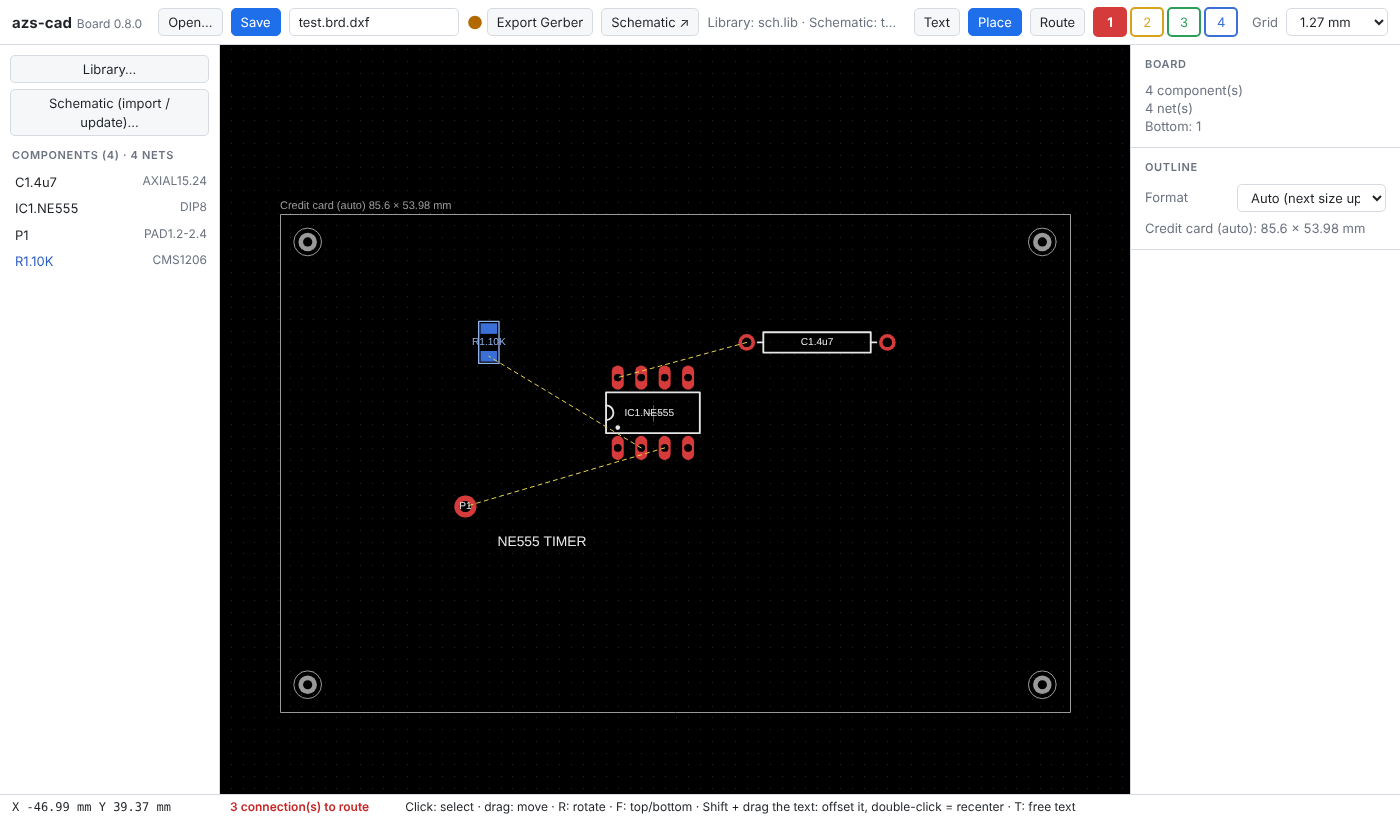
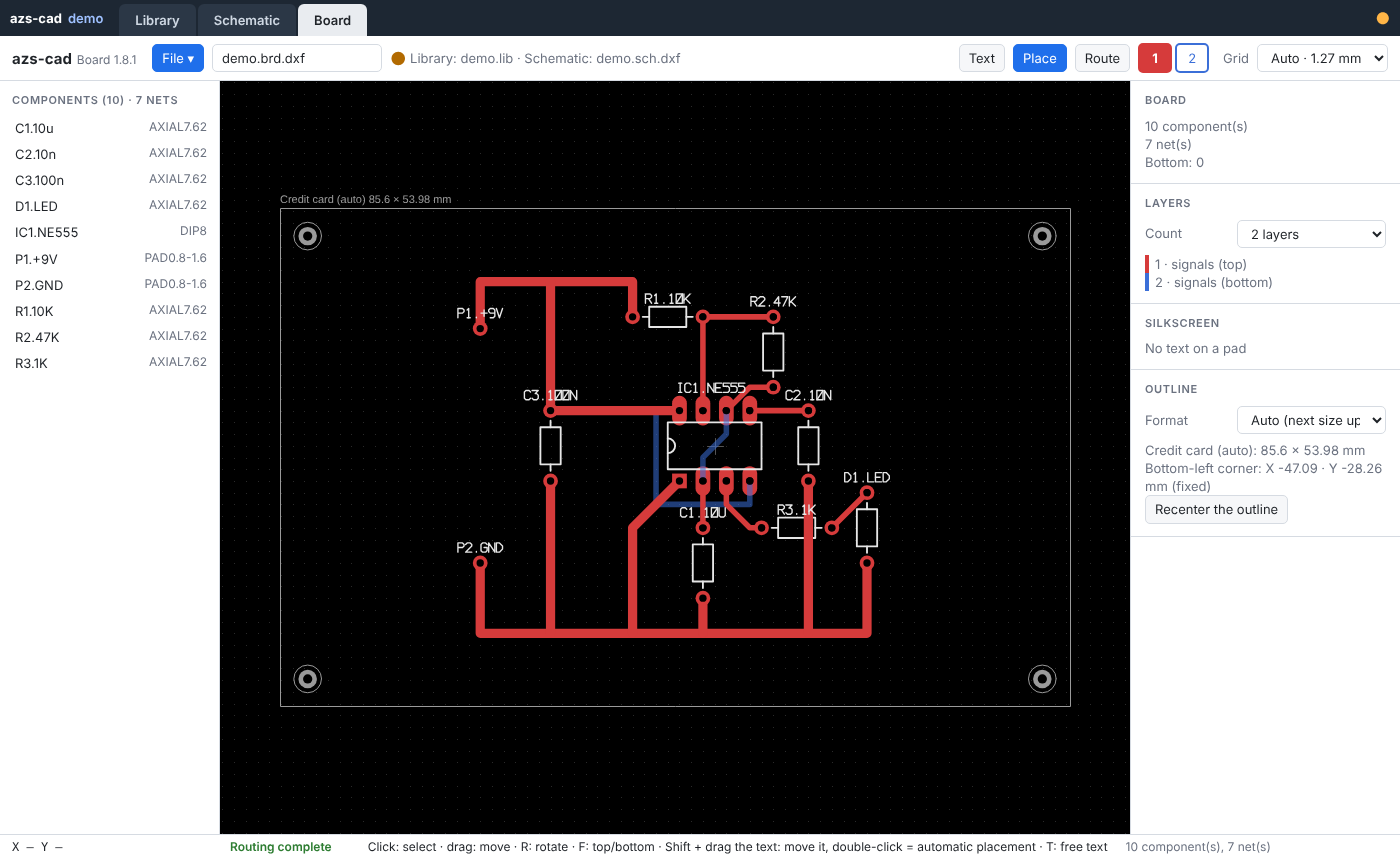
Add files via upload

diff --git a/LISEZMOI.md b/LISEZMOI.md
@@ -2,155 +2,25 @@
 
 **🇫🇷 Français** · [🇬🇧 English](README.md)
 
-Bibliothèque de composants, saisie de schéma et circuit imprimé multicouche, en trois pages HTML autonomes : HTML/CSS/JavaScript natif, aucune dépendance, fonctionne hors ligne. Esprit Eagle 4.01, sans en être un clone : routage manuel, 4 couches de cuivre, export Gerber RS-274X et Excellon.
-
-L'interface s'affiche en français si le navigateur est en français, en anglais sinon.
-
-![Routage](capture-routage.png)
-
-## Fichiers
-
-| Fichier | Version | Rôle |
-|---|---|---|
-| `bibliotheque.html` | 0.4.0 | Bibliothèque : composants, gabarits, nom des pattes |
-| `schema.html` | 0.5.0 | Saisie de schéma |
-| `board.html` | 0.8.0 | Circuit imprimé : placement, routage, export |
-| `LISEZMOI.md`, `README.md` | | Documentation en français, en anglais |
-| `LICENSE` | | CC BY-NC 4.0 |
-
-Les trois pages doivent être dans le **même dossier** et ouvertes dans le **même navigateur** (Chrome ou Edge conseillés).
-
-## Démarrage
-
-1. Ouvrir `bibliotheque.html`, créer ou ouvrir une bibliothèque `.lib`, l'enregistrer.
-2. Ouvrir `schema.html`, charger la bibliothèque, saisir le schéma.
-3. Bouton **Circuit ↗** : `board.html` s'ouvre sur le même projet et suit le schéma en direct, sans enregistrement ni rechargement.
-4. Placer, router, choisir le contour, puis **Export Gerber** : aperçu, et téléchargement d'un zip.
-
-## Bibliothèque — `bibliotheque.html`
-
-![Bibliothèque](capture-bibliotheque.png)
-
-- Double vue : **SCHÉMA** (fond blanc, pattes vertes) et **CIRCUIT** (fond noir, cuivre rouge), zoom et déplacement partagés.
-- **+ Nouveau composant** : famille normalisée et nombre de pattes, puis nom (ex. `NE555`). Familles : DIP étroit/large, SIL, HE10, bornier, axial, radial, TO-92/126/220, HC-49, SOIC, TSSOP, PLCC, TQFP, QFN, CMS 0402 à 2512, diodes CMS, SOT, DPAK.
-- Nom des pattes : clic sur la patte (Tab = patte suivante), clic droit = liste (VCC+, GND…), ou tableau Patte | Nom.
-- **Retoucher** : sélection, poignées, déplacement, rotation (R), suppression (Suppr), type DIL/CMS changé sur place. **Dessiner** : pads DIL/CMS, trait, rectangle, arc, cercle, point, texte.
-- Le vernis n'est pas dessiné : il découle des pastilles.
-
-Format `.lib` (texte, mm, degrés, une instruction par ligne, `#` = commentaire) :
-
-```
-PACKAGE DIP8
-PAD 1 -3.81 -3.81 0.8 1.3 OVALE 90      # nom x y perçage diamètre ROND|CARRE|OVALE rotation
-SMD 1 -0.95 0 0.6 1.0 0                  # nom x y dx dy rotation
-TRAIT x1 y1 x2 y2 épaisseur
-RECT x1 y1 x2 y2 épaisseur
-ARC cx cy r angle1 angle2 épaisseur      # sens trigonométrique
-CERCLE cx cy r épaisseur
-POINT x y r
-FIN
-COMPOSANT NE555 DIP8 SOIC8               # nom puis gabarits possibles
-GND => 1
-VCC+ => 8
-FIN
-```
-
-## Schéma — `schema.html`
-
-![Schéma](capture-schema.png)
-
-- Palette : **R** (zigzag), **C** (deux plaques, polarisé « + » au-delà de 1 µF, forçable), **D** (patte 1 = cathode), **L**, **PAD** (une patte), **IC** (dessiné comme dans la bibliothèque). Repères automatiques R1, C1, D1, L1, P1, IC1 ; libellés `IC1.NE555`, `R1.10K`.
-- Clic dans le vide : repose le dernier composant, même valeur.
-- Liaison : clic patte → patte. Clic droit sur une patte : **VCC+** ou **GND**.
-- Groupes : Ctrl+clic / Maj+clic sur des pattes ; deux groupes de même taille forment un **bus** (peignes et tronc gras marqué du nombre), appairé par numéro de patte.
-- Fil sélectionné : carré = déplacer un coude, rond au milieu = nouveau coude, double-clic = effacer. Type **Électrique** ou **Ligne 50 Ω** (orange pointillé). Tracé automatique orthogonal.
-- Croisement de deux équipotentielles : encoche ; même équipotentielle : point.
-- R : rotation · Suppr : supprimer · Ctrl+Z / Ctrl+Y · Ctrl+S.
-
-## Circuit — `board.html`
+Une seule page HTML, `azs-cad.html` : bibliothèque, schéma et circuit imprimé d'un même projet, en onglets. HTML/CSS/JavaScript natif, aucune dépendance, fonctionne hors ligne. Esprit Eagle 4.01, sans en être un clone. Interface en français ou en anglais selon le navigateur.
 
 ![Circuit](capture-circuit.png)
 
-### Placement
-- Import du schéma, ou lien **Schéma ↗ / Circuit ↗** : composants pré-placés selon le schéma, écartés juste assez pour ne pas se chevaucher.
-- Gabarit choisi dans la fiche : ceux de la bibliothèque, puis les **normalisés** générés (mêmes familles que la bibliothèque, pastille seule traversante ou CMS). Les passifs reprennent le dernier gabarit choisi pour leur type.
-- R : rotation · F : dessus / dessous (le dessous s'affiche en bleu, vu de dessus).
-- Le texte `IC1.NE555` est collé au composant ; Maj + glisser le décale, double-clic le recentre.
-- **Texte** (T) : texte libre de sérigraphie, hauteur en mm, face au choix.
-- Un composant déplacé, tourné, retourné ou changé de gabarit perd son cuivre : ses liaisons repartent en chevelu.
+## Fonctions
 
-### Routage
-- **Router**, puis clic sur une pastille : départ sur la couche de la face du composant (cuivre 1 dessus, cuivre 4 dessous).
-- Chaque clic pose un coude droit puis à 45°. Touches **1 à 4** ou boutons colorés : changement de couche, via posée automatiquement.
-- Fin : clic sur une pastille, une piste ou une via de la même équipotentielle, sur n'importe quelle couche (via posée d'office si besoin). Clic droit ou Échap : arrêt en gardant les segments. **Double-clic : annule le tracé en cours.**
-- Hors tracé : double-clic sur une piste ou une via = dé-routage, retour au chevelu jaune pointillé.
-- Clic sur un segment : sélection ; glisser = déplacer ; Suppr = supprimer ; clic sur l'extrémité libre d'un segment sélectionné = prolonger. Clic droit sur une piste : largeur standard (0,2 à 2,54 mm) ou saisie.
-- Le chevelu jaune pointillé suit le tracé ; les lignes 50 Ω sont en orange.
-- Isolement : un passage trop près du cuivre d'une autre équipotentielle est entouré d'un cercle mauve avec la distance mesurée ; la pose n'est jamais refusée.
-- Compteur permanent des liaisons restant à router dans la barre d'état.
+- **Bibliothèque** : gabarits normalisés DIL/CMS (DIP, SOIC, QFN, TQFP, 0402–2512…), nom des pattes, import de gabarits fournisseur `.zip` / `.lbr`.
+- **Schéma** : R, C, D, L, PAD, circuits du projet, bus, VCC+/GND, lignes 50 Ω.
+- **Circuit** : 2, 4 ou 6 couches, plans GND et VCC, routage manuel 45°, vias automatiques, contrôle d'isolement, sérigraphie au vrai.
+- **Patchs RF 50 Ω** (400 à 3000 MHz), cuivre calculé : diviseur Wilkinson, diviseur en T 2/4/8 sorties, coupleur directionnel, filtres passe-bas et passe-bande, antenne patch, monopôle λ/4.
+- **Sorties** : Gerber RS-274X + Excellon en zip avec aperçu, nomenclature `.bom.csv`.
+- **Fichiers** : `<projet>.lib`, `<projet>.sch.dxf` et `<projet>.brd.dxf` (AutoCAD R12). Ctrl+S enregistre le projet.
 
-### Réglages de fabrication
+![Schéma](capture-schema.png)
 
-| Réglage | Défaut | Minimum (PCBCart standard × 2) |
-|---|---|---|
-| Largeur de piste | 1 mm, puis la dernière utilisée | 0,152 mm |
-| Isolement | 0,2 mm | 0,152 mm |
-| Via (perçage / Ø) | 0,8 / 1,6 mm | perçage 0,304 mm, couronne 0,152 mm |
-| Substrat | FR4 1,6 mm (ou 0,8), εr 4,5, cuivre 35 µm | |
-
-Largeur 50 Ω (microruban, IPC-2141) : `w = (5,98·h / exp(50·√(εr+1,41) / 87) − t) / 0,8`, soit 2,914 mm sur 1,6 mm.
-
-### Contour et export
-
-![Aperçu Gerber](capture-apercu-gerber.png)
-
-- Contour : **Auto** (carte de crédit 85,6 × 54, sinon Europe 160 × 100, sinon taille juste au-dessus), format imposé ou **Personnalisé** ; 5 mm de marge, centré sur le projet.
-- 4 mires d'alignement à 3 mm des coins (cuivre Ø 2, vernis Ø 2,4, sérigraphie Ø 3, trou Ø 1) et « **AZS** » sur toutes les couches pour contrôler le sens : lisible dessus, en miroir dessous.
-- **Export Gerber** : aperçu relu depuis les fichiers produits — miniatures vues de dessus, loupe sur « AZS », vue agrandie avec couches superposables, transparence, coordonnées et mesure (Maj + clic) — puis **Télécharger le zip** `<nom>-gerber.zip`.
-
-![Vue agrandie](capture-vue-gerber.png)
-
-| Fichier | Contenu |
-|---|---|
-| `-cuivre1.gtl` | Cuivre 1 (dessus) |
-| `-cuivre2.g2l`, `-cuivre3.g3l` | Cuivres internes, s'ils portent une piste |
-| `-cuivre4.gbl` | Cuivre 4 (dessous) |
-| `-vernis-dessus.gts`, `-vernis-dessous.gbs` | Ouvertures de vernis (marge 0,1 mm) |
-| `-serigraphie-dessus.gto`, `-serigraphie-dessous.gbo` | Sérigraphie (police au trait, majuscules) |
-| `-contour.gko` | Contour |
-| `-percage.drl` | Perçage Excellon (mm) |
-
-## Lien schéma ↔ circuit
-
-Chaque page publie son état à chaque changement dans le stockage local du navigateur ; l'autre page le suit sans action. Ce qui n'a pas changé reste en place et routé ; un composant ajouté arrive à droite de la carte ; un composant supprimé part avec son cuivre ; une liaison modifiée fait sauter les pistes de son équipotentielle. **Enregistrer** produit les fichiers sur disque.
-
-## Raccourcis
-
-| Touche | Bibliothèque | Schéma | Circuit |
-|---|---|---|---|
-| R | rotation | rotation | rotation |
-| F | | | dessus / dessous |
-| T | | | texte libre |
-| 1 à 4 | | | couche de cuivre (via en cours de tracé) |
-| Suppr | supprimer | supprimer | segment, via ou texte |
-| Échap | fin d'action | annuler la pose / la liaison | arrêter le tracé, désélectionner |
-| Ctrl+Z / Ctrl+Y | annuler / rétablir | annuler / rétablir | annuler / rétablir |
-| Ctrl+S | enregistrer | enregistrer | enregistrer |
-
-## Formats
-
-- Schéma `.sch.dxf` et circuit `.brd.dxf` : **AutoCAD R12 (AC1009)** multicalque, lisibles par tout logiciel de DAO ; données azs-cad en XDATA (APPID `AZSCAD` ; les fichiers `AIGLECAD` des premières versions restent lus).
-- Calques du circuit : `CUIVRE_1` à `CUIVRE_4`, `VERNIS_DESSUS`, `VERNIS_DESSOUS`, `TEXTE_DESSUS`, `TEXTE_DESSOUS`, `PERCAGE`, `CHEVELU`, `AZSCAD`.
-- Bibliothèque `.lib` : texte (voir plus haut).
-
-## Limites
-
-Pas d'autoroutage, pas de plans de masse, vias traversantes uniquement, pas de couche restrict/keepout. Le lien schéma ↔ circuit exige le même navigateur.
+![Patch](capture-patch.png)
 
 ## Licence
 
-Libre pour un usage non commercial, sous licence [CC BY-NC 4.0](https://creativecommons.org/licenses/by-nc/4.0/deed.fr), avec mention obligatoire de la source et de l'auteur : « azs-cad — Eric PERRET — https://github.com/ericperret/azs-cad ». Toute utilisation commerciale est interdite sans l'autorisation écrite de l'auteur, à demander par courriel : eperret@azs.fr. Voir `LICENSE`.
-
-## Auteur
+[CC BY-NC 4.0](https://creativecommons.org/licenses/by-nc/4.0/deed.fr) : usage non commercial libre, avec mention « azs-cad — Eric PERRET — https://github.com/ericperret/pcb-cad ». Usage commercial sur autorisation écrite : eperret@azs.fr. Voir `LICENSE`.
 
 © Eric PERRET 2026 · eperret@azs.fr · www.azs.fr

diff --git a/README.md b/README.md
@@ -2,155 +2,25 @@
 
 [🇫🇷 Français](LISEZMOI.md) · **🇬🇧 English**
 
-Component library, schematic capture and multilayer PCB, in three standalone HTML pages: plain HTML/CSS/JavaScript, no dependency, works offline. In the spirit of Eagle 4.01 without cloning it: manual routing, 4 copper layers, Gerber RS-274X and Excellon export.
-
-The interface is in French when the browser is set to French, in English otherwise.
-
-![Routing](screenshot-routing.png)
-
-## Files
-
-| File | Version | Role |
-|---|---|---|
-| `bibliotheque.html` | 0.4.0 | Library: components, footprints, pin names |
-| `schema.html` | 0.5.0 | Schematic capture |
-| `board.html` | 0.8.0 | Board: placement, routing, export |
-| `README.md`, `LISEZMOI.md` | | Documentation in English, in French |
-| `LICENSE` | | CC BY-NC 4.0 |
-
-The three pages must sit in the **same folder** and be opened in the **same browser** (Chrome or Edge recommended).
-
-## Getting started
-
-1. Open `bibliotheque.html`, create or open a `.lib` library, save it.
-2. Open `schema.html`, load the library, draw the schematic.
-3. **Board ↗** button: `board.html` opens on the same project and follows the schematic live, with no saving or reloading.
-4. Place, route, pick the outline, then **Export Gerber**: preview, then download a zip.
-
-## Library — `bibliotheque.html`
-
-![Library](screenshot-library.png)
-
-- Two views: **SCHEMATIC** (white background, green pins) and **BOARD** (black background, red copper), shared zoom and pan.
-- **+ New component**: standard family and pin count, then name (e.g. `NE555`). Families: DIP narrow/wide, SIL, HE10, screw terminal, axial, radial, TO-92/126/220, HC-49, SOIC, TSSOP, PLCC, TQFP, QFN, SMD 0402 to 2512, SMD diodes, SOT, DPAK.
-- Pin names: click the pin (Tab = next pin), right-click = list (VCC+, GND…), or the Pin | Name table.
-- **Edit**: selection, handles, move, rotate (R), delete (Del), THT/SMD type changed in place. **Draw**: THT/SMD pads, line, rectangle, arc, circle, dot, text.
-- Solder mask is not drawn: it derives from the pads.
-
-`.lib` format (plain text, mm, degrees, one statement per line, `#` = comment; keywords stay in French):
-
-```
-PACKAGE DIP8
-PAD 1 -3.81 -3.81 0.8 1.3 OVALE 90      # name x y drill diameter ROND|CARRE|OVALE rotation
-SMD 1 -0.95 0 0.6 1.0 0                  # name x y dx dy rotation
-TRAIT x1 y1 x2 y2 width                  # line
-RECT x1 y1 x2 y2 width
-ARC cx cy r angle1 angle2 width          # counter-clockwise
-CERCLE cx cy r width                     # circle
-POINT x y r
-FIN                                      # end
-COMPOSANT NE555 DIP8 SOIC8               # component name, then allowed footprints
-GND => 1                                 # function => pins
-VCC+ => 8
-FIN
-```
-
-## Schematic — `schema.html`
-
-![Schematic](screenshot-schematic.png)
-
-- Palette: **R** (zigzag), **C** (two plates, polarized "+" above 1 µF, can be forced), **D** (pin 1 = cathode), **L**, **PAD** (one pin), **IC** (drawn as in the library). Automatic references R1, C1, D1, L1, P1, IC1; labels `IC1.NE555`, `R1.10K`.
-- Click in empty space: places the last component again, same value.
-- Connection: click pin → pin. Right-click a pin: **VCC+** or **GND**.
-- Groups: Ctrl+click / Shift+click on pins; two groups of the same size make a **bus** (combs and a thick trunk labeled with the count), paired by pin number.
-- Selected wire: square = move a bend, middle circle = new bend, double-click = delete. Type **Electrical** or **50 Ω line** (dashed orange). Automatic orthogonal path.
-- Crossing of two different nets: hop; same net: junction dot.
-- R: rotate · Del: delete · Ctrl+Z / Ctrl+Y · Ctrl+S.
-
-## Board — `board.html`
+A single HTML page, `azs-cad.html`: library, schematic and board of one project, in tabs. Plain HTML/CSS/JavaScript, no dependency, works offline. In the spirit of Eagle 4.01 without cloning it. The interface is in French or English depending on the browser.
 
 ![Board](screenshot-board.png)
 
-### Placement
-- Schematic import, or the **Schematic ↗ / Board ↗** link: components pre-placed as in the schematic, spread just enough not to overlap.
-- Footprint picked in the side panel: library footprints first, then generated **standard** ones (same families as the library, single THT or SMD pad). Passives reuse the last footprint chosen for their type.
-- R: rotate · F: top / bottom (bottom shown in blue, seen from the top).
-- The `IC1.NE555` label is glued to the component; Shift + drag offsets it, double-click recenters it.
-- **Text** (T): free silkscreen text, height in mm, side of your choice.
-- A component that is moved, rotated, flipped or given another footprint loses its copper: its connections go back to the ratsnest.
+## Features
 
-### Routing
-- **Route**, then click a pad: the trace starts on the component's side layer (copper 1 top, copper 4 bottom).
-- Each click lays a straight then 45° bend. Keys **1 to 4** or the colored buttons: layer change, via placed automatically.
-- End: click a pad, track or via of the same net, on any layer (via added when needed). Right-click or Esc: stop and keep the segments. **Double-click: cancels the current trace.**
-- Outside a trace: double-click a track or via = unroute, back to the dashed yellow ratsnest.
-- Click a segment: select; drag = move; Del = delete; click the free end of a selected segment = extend. Right-click a track: standard width (0.2 to 2.54 mm) or typed value.
-- The dashed yellow ratsnest follows the trace; 50 Ω lines are orange.
-- Clearance: passing too close to copper of another net is circled in purple with the measured distance; placement is never refused.
-- Permanent counter of connections left to route in the status bar.
+- **Library**: standard THT/SMD footprints (DIP, SOIC, QFN, TQFP, 0402–2512…), pin names, vendor footprint import (`.zip` / `.lbr`).
+- **Schematic**: R, C, D, L, PAD, project ICs, buses, VCC+/GND, 50 Ω lines.
+- **Board**: 2, 4 or 6 layers, GND and VCC planes, manual 45° routing, automatic vias, clearance check, true-size silkscreen.
+- **50 Ω RF patches** (400 to 3000 MHz), computed copper: Wilkinson splitter, T splitter with 2/4/8 outputs, directional coupler, low-pass and band-pass filters, patch antenna, λ/4 monopole.
+- **Outputs**: Gerber RS-274X + Excellon as a zip with preview, `.bom.csv` bill of materials.
+- **Files**: `<project>.lib`, `<project>.sch.dxf` and `<project>.brd.dxf` (AutoCAD R12). Ctrl+S saves the project.
 
-### Manufacturing settings
+![Schematic](screenshot-schematic.png)
 
-| Setting | Default | Minimum (PCBCart standard × 2) |
-|---|---|---|
-| Track width | 1 mm, then the last one used | 0.152 mm |
-| Clearance | 0.2 mm | 0.152 mm |
-| Via (drill / Ø) | 0.8 / 1.6 mm | drill 0.304 mm, annular ring 0.152 mm |
-| Substrate | FR4 1.6 mm (or 0.8), εr 4.5, 35 µm copper | |
-
-50 Ω width (microstrip, IPC-2141): `w = (5.98·h / exp(50·√(εr+1.41) / 87) − t) / 0.8`, i.e. 2.914 mm on 1.6 mm.
-
-### Outline and export
-
-![Gerber preview](screenshot-gerber-preview.png)
-
-- Outline: **Auto** (credit card 85.6 × 54, else Europe 160 × 100, else the next size up), a forced format or **Custom**; 5 mm margin, centered on the project.
-- 4 alignment marks 3 mm from the corners (copper Ø 2, mask Ø 2.4, silkscreen Ø 3, hole Ø 1) and "**AZS**" on every layer to check orientation: readable on top layers, mirrored on bottom layers.
-- **Export Gerber**: preview read back from the generated files — top-view thumbnails, "AZS" magnifier, enlarged view with stackable layers, transparency, coordinates and measurement (Shift + click) — then **Download zip** `<name>-gerber.zip`.
-
-![Enlarged view](screenshot-gerber-view.png)
-
-| File | Content |
-|---|---|
-| `-cuivre1.gtl` | Copper 1 (top) |
-| `-cuivre2.g2l`, `-cuivre3.g3l` | Inner copper, when it carries a track |
-| `-cuivre4.gbl` | Copper 4 (bottom) |
-| `-vernis-dessus.gts`, `-vernis-dessous.gbs` | Solder mask openings (0.1 mm margin) |
-| `-serigraphie-dessus.gto`, `-serigraphie-dessous.gbo` | Silkscreen (stroke font, upper case) |
-| `-contour.gko` | Outline |
-| `-percage.drl` | Excellon drill (mm) |
-
-## Schematic ↔ board link
-
-Each page publishes its state to the browser's local storage on every change; the other page follows with no action. Unchanged parts stay placed and routed; an added component appears to the right of the board; a deleted component leaves with its copper; a modified connection drops the tracks of its net. **Save** writes the files to disk.
-
-## Shortcuts
-
-| Key | Library | Schematic | Board |
-|---|---|---|---|
-| R | rotate | rotate | rotate |
-| F | | | top / bottom |
-| T | | | free text |
-| 1 to 4 | | | copper layer (via while routing) |
-| Del | delete | delete | segment, via or text |
-| Esc | end action | cancel placement / connection | stop the trace, deselect |
-| Ctrl+Z / Ctrl+Y | undo / redo | undo / redo | undo / redo |
-| Ctrl+S | save | save | save |
-
-## Formats
-
-- Schematic `.sch.dxf` and board `.brd.dxf`: multilayer **AutoCAD R12 (AC1009)**, readable by any CAD software; azs-cad data in XDATA (APPID `AZSCAD`; `AIGLECAD` files from early versions are still read).
-- Board layers: `CUIVRE_1` to `CUIVRE_4` (copper), `VERNIS_DESSUS`, `VERNIS_DESSOUS` (solder mask), `TEXTE_DESSUS`, `TEXTE_DESSOUS` (silkscreen), `PERCAGE` (drill), `CHEVELU` (ratsnest), `AZSCAD`.
-- Library `.lib`: plain text (see above).
-
-## Limitations
-
-No autorouter, no ground planes, through-hole vias only, no restrict/keepout layer. The schematic ↔ board link needs the same browser.
+![Patch](screenshot-patch.png)
 
 ## License
 
-Free for non-commercial use under the [CC BY-NC 4.0](https://creativecommons.org/licenses/by-nc/4.0/deed.en) license, with mandatory credit to the source and author: "azs-cad — Eric PERRET — https://github.com/ericperret/azs-cad". Any commercial use is forbidden without the author's written permission, requested by e-mail: eperret@azs.fr. See `LICENSE`.
-
-## Author
+[CC BY-NC 4.0](https://creativecommons.org/licenses/by-nc/4.0/deed.en): free for non-commercial use, with credit "azs-cad — Eric PERRET — https://github.com/ericperret/pcb-cad". Commercial use requires written permission: eperret@azs.fr. See `LICENSE`.
 
 © Eric PERRET 2026 · eperret@azs.fr · www.azs.fr
